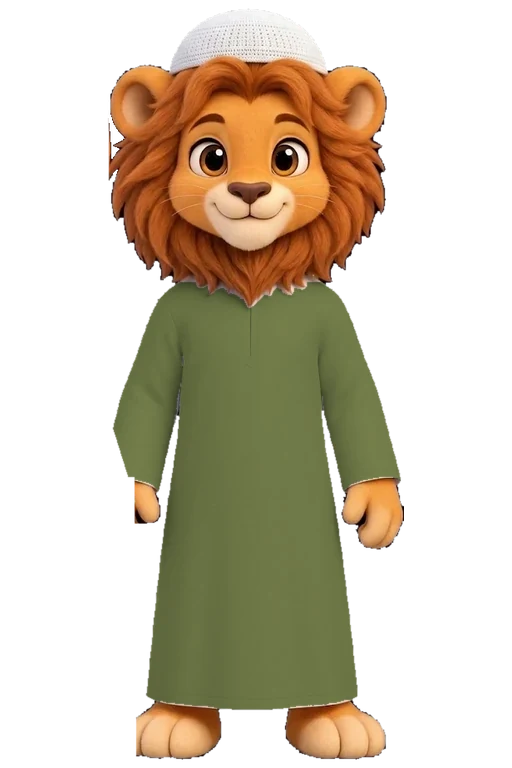
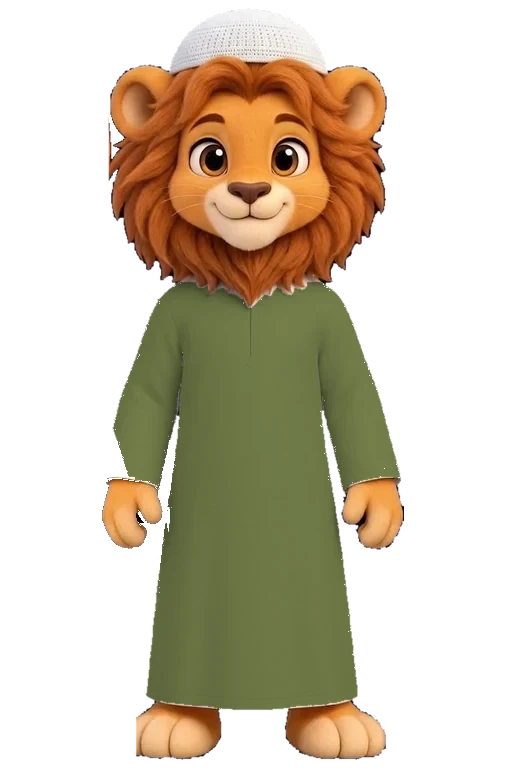
Outfits: repair the cut-off paws of the cat and the lion in the cap outfits
The cap outfits (white, blue, beige, gray, olive, with scarf) had one paw cut off for the cat and the lion. The paw is
rebuilt from the other one (mirrored); the robe is left as it is. The coloured versions share the same drawing, so the
same repair is applied to them.

Claude-Session: https://claude.ai/code/session_01F9gtU6skdPmDpAiEbNdrG8

Changed region(s): [[0.1875, 0.5938, 0.3438, 0.7188], [0.3125, 0.5938, 0.3438, 0.625]]

diff --git a/index.html b/index.html
@@ -249,7 +249,7 @@ html,body{margin:0;height:100%;background:#0b1430;color:#eef1ff;font-family:-app
 <script>
 (async()=>{
  const status=document.getElementById('status');
- const BUILD='9636xmarketart';
+ const BUILD='9637xhands';
  // Keep both locales available for safe in-app language changes.
  let SEGMENT_COUNT=67;
  const CONCURRENCY=6;
